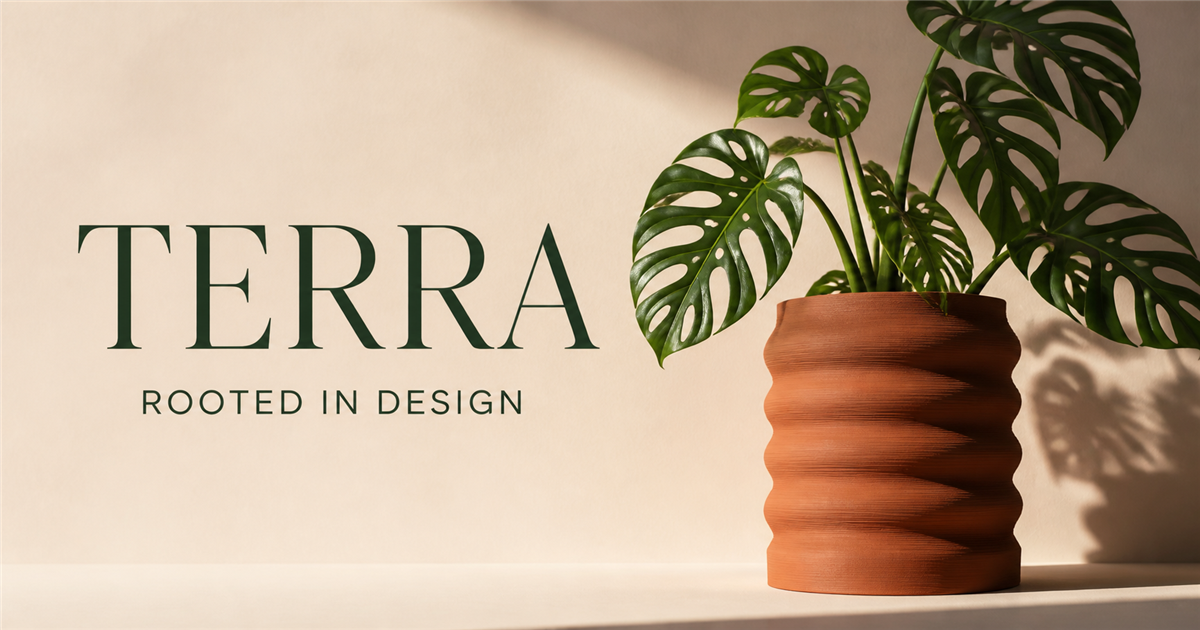
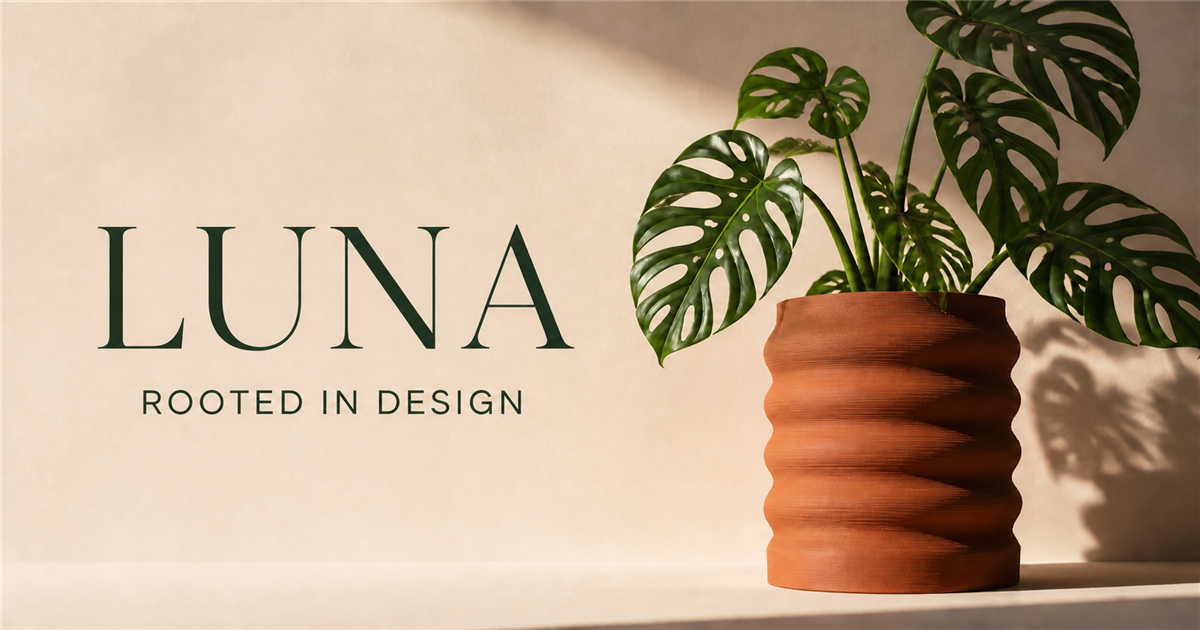
Rebrand storefront to Luna

diff --git a/app/contact/page.tsx b/app/contact/page.tsx
@@ -4,11 +4,11 @@ import { ContactForm } from "@/components/contact-form";
 
 export const metadata: Metadata = {
   title: "Contact and FAQs",
-  description: "Contact Terra about an order, plant care, delivery or trade enquiries. Find answers to common questions about our made-to-order plant pots.",
+  description: "Contact Luna about an order, plant care, delivery or trade enquiries. Find answers to common questions about our made-to-order plant pots.",
 };
 
 const faqs = [
-  ["Does the plant arrive inside the decorative pot?", "Yes. The plant stays in a fitted, removable nursery liner inside your Terra pot. It arrives composed and ready to place, while the liner keeps watering straightforward."],
+  ["Does the plant arrive inside the decorative pot?", "Yes. The plant stays in a fitted, removable nursery liner inside your Luna pot. It arrives composed and ready to place, while the liner keeps watering straightforward."],
   ["How long will my order take?", "Pots are printed to order, usually within 3–5 working days. UK mainland delivery takes a further 2–3 working days. We’ll email tracking as soon as it leaves the studio."],
   ["What if my plant arrives damaged?", "Photograph the plant and packaging within 48 hours and email us. Our healthy-arrival promise means we’ll make it right with care guidance, a replacement or a refund."],
   ["Are 3D-printed pots waterproof?", "The decorative pot is designed as a cover pot rather than a direct planter. The removable nursery liner handles water and drainage, protecting both the printed pot and your surfaces."],
@@ -21,7 +21,7 @@ export default function ContactPage() {
     <main className="contact-page">
       <script type="application/ld+json" dangerouslySetInnerHTML={{ __html: JSON.stringify(faqSchema) }} />
       <section className="contact-hero"><div className="site-container"><span className="eyebrow eyebrow-light">We’re here</span><h1>Let’s talk <em>plants.</em></h1><p>Questions about an order, an unhappy leaf or something altogether more ambitious? Send us a note.</p></div></section>
-      <section className="contact-main"><div className="site-container contact-grid"><div className="contact-details"><span className="eyebrow">Contact Terra</span><h2>A small team,<br />with real replies.</h2><p>We answer messages Monday to Friday and usually come back within two working days.</p><div className="contact-methods"><a href="mailto:hello@lunaplants.co.uk"><Mail size={20} /><span><small>Email</small>hello@lunaplants.co.uk</span></a><div><MapPin size={20} /><span><small>Studio</small>Bristol, United Kingdom</span></div><a href="https://www.instagram.com"><MessageCircle size={20} /><span><small>Social</small>@terraplants</span></a></div></div><ContactForm /></div></section>
+      <section className="contact-main"><div className="site-container contact-grid"><div className="contact-details"><span className="eyebrow">Contact Luna</span><h2>A small team,<br />with real replies.</h2><p>We answer messages Monday to Friday and usually come back within two working days.</p><div className="contact-methods"><a href="mailto:hello@lunaplants.co.uk"><Mail size={20} /><span><small>Email</small>hello@lunaplants.co.uk</span></a><div><MapPin size={20} /><span><small>Studio</small>Bristol, United Kingdom</span></div><a href="https://www.instagram.com"><MessageCircle size={20} /><span><small>Social</small>@lunaplants</span></a></div></div><ContactForm /></div></section>
       <section className="faq-section" id="faq"><div className="site-container faq-layout"><div><span className="eyebrow">Useful answers</span><h2>Frequently<br /><em>asked.</em></h2><p id="delivery">Still unsure? Our team is always happy to help with delivery, sizing or plant care.</p></div><div className="faq-list">{faqs.map(([question, answer], index) => <details key={question} id={index === 3 ? "care" : undefined}><summary><span>0{index + 1}</span>{question}</summary><p>{answer}</p></details>)}</div></div></section>
     </main>
   );

diff --git a/app/page.tsx b/app/page.tsx
@@ -11,14 +11,14 @@ import { TrustBar } from "@/components/trust-bar";
 export const metadata: Metadata = {
   title: "3D-printed plant pots, paired with plants",
   description:
-    "Shop modern 3D-printed plant pots with hand-selected indoor plants. Designed and made to order in the UK by Terra.",
+    "Shop modern 3D-printed plant pots with hand-selected indoor plants. Designed and made to order in the UK by Luna.",
 };
 
 export default function HomePage() {
   const organisationSchema = {
     "@context": "https://schema.org",
     "@type": "Organization",
-    name: "Terra",
+    name: "Luna",
     url: "https://lunaplants.co.uk",
     description: "Modern 3D-printed pots paired with houseplants, made to order in the UK.",
     areaServed: "GB",
@@ -41,7 +41,7 @@ export default function HomePage() {
           </div>
           <div className="hero-visual">
             <div className="hero-visual-number" aria-hidden="true">01</div>
-            <ProductArt shape="wave" palette="clay" priorityLabel="Golden pothos in Terra's sculptural terracotta Wave Pot" />
+            <ProductArt shape="wave" palette="clay" priorityLabel="Golden pothos in Luna's sculptural terracotta Wave Pot" />
             <div className="hero-caption">
               <span>The Wave Pot</span>
               <span>Terracotta · PLA</span>
@@ -69,7 +69,7 @@ export default function HomePage() {
       <section className="section process-section">
         <div className="site-container process-layout">
           <div className="process-intro">
-            <span className="eyebrow eyebrow-light">How Terra works</span>
+            <span className="eyebrow eyebrow-light">How Luna works</span>
             <h2>Handcrafted by machine.<br /><em>Inspired by nature.</em></h2>
             <p>Digital precision meets the unpredictability of a living thing. We think that contrast makes both more beautiful.</p>
           </div>
@@ -106,7 +106,7 @@ export default function HomePage() {
         <div className="studio-copy-panel">
           <span className="eyebrow">Our point of view</span>
           <h2>Objects for living.<br />Made with <em>less waste.</em></h2>
-          <p>We started Terra because most plant pots are either mass-produced and forgettable, or beautiful but hard to live with. 3D printing gives us another path: considered forms, produced only when someone wants them.</p>
+          <p>We started Luna because most plant pots are either mass-produced and forgettable, or beautiful but hard to live with. 3D printing gives us another path: considered forms, produced only when someone wants them.</p>
           <ul>
             <li><Check size={16} /> Plant-based and durable materials</li>
             <li><Check size={16} /> No speculative overproduction</li>
@@ -127,7 +127,7 @@ export default function HomePage() {
       <section className="section journal-preview">
         <div className="site-container">
           <div className="section-heading compact-heading">
-            <div><span className="eyebrow">The Terra journal</span><h2>Things worth <em>growing.</em></h2></div>
+            <div><span className="eyebrow">The Luna journal</span><h2>Things worth <em>growing.</em></h2></div>
             <Link className="text-link" href="/journal">Read all stories <ArrowRight size={15} /></Link>
           </div>
           <div className="journal-grid">

diff --git a/app/journal/[slug]/page.tsx b/app/journal/[slug]/page.tsx
@@ -15,14 +15,14 @@ export async function generateMetadata({ params }: { params: Promise<{ slug: str
 export default async function JournalPostPage({ params }: { params: Promise<{ slug: string }> }) {
   const post = getJournalPost((await params).slug);
   if (!post) notFound();
-  const articleSchema = { "@context": "https://schema.org", "@type": "Article", headline: post.title, description: post.excerpt, datePublished: "2026-08-02", author: { "@type": "Organization", name: "Terra" }, publisher: { "@type": "Organization", name: "Terra" } };
+  const articleSchema = { "@context": "https://schema.org", "@type": "Article", headline: post.title, description: post.excerpt, datePublished: "2026-08-02", author: { "@type": "Organization", name: "Luna" }, publisher: { "@type": "Organization", name: "Luna" } };
   return (
     <main className="article-page">
       <script type="application/ld+json" dangerouslySetInnerHTML={{ __html: JSON.stringify(articleSchema) }} />
-      <header className="article-header"><div className="site-container"><Link className="article-back" href="/journal"><ArrowLeft size={15} /> Back to journal</Link><span className="eyebrow">{post.category} · {post.readTime}</span><h1>{post.title}</h1><p>{post.excerpt}</p><div><span>{post.date}</span><span>Written by Terra Studio</span></div></div></header>
+      <header className="article-header"><div className="site-container"><Link className="article-back" href="/journal"><ArrowLeft size={15} /> Back to journal</Link><span className="eyebrow">{post.category} · {post.readTime}</span><h1>{post.title}</h1><p>{post.excerpt}</p><div><span>{post.date}</span><span>Written by Luna Studio</span></div></div></header>
       <div className={`article-lead-art journal-${post.tone}`}><span>FIELD NOTE</span><span className="article-plant" aria-hidden="true" /></div>
       <article className="article-body"><p className="article-intro">{post.intro}</p>{post.sections.map((section, index) => <section key={section.heading}><span>0{index + 1}</span><h2>{section.heading}</h2><p>{section.body}</p></section>)}<blockquote>Good plant care is mostly attention: notice what changes, then change one thing at a time.</blockquote></article>
-      <section className="article-newsletter"><div><span className="eyebrow eyebrow-light">More useful things</span><h2>Notes for greener rooms.</h2></div><div><p>Get the next field note in your inbox, with 10% off your first Terra pairing.</p><Newsletter compact /></div></section>
+      <section className="article-newsletter"><div><span className="eyebrow eyebrow-light">More useful things</span><h2>Notes for greener rooms.</h2></div><div><p>Get the next field note in your inbox, with 10% off your first Luna pairing.</p><Newsletter compact /></div></section>
     </main>
   );
 }

diff --git a/components/checkout-form.tsx b/components/checkout-form.tsx
@@ -24,7 +24,7 @@ export function CheckoutForm() {
     return (
       <section className="order-confirmation">
         <span className="confirmation-mark"><Check size={34} strokeWidth={1.3} /></span>
-        <span className="eyebrow">Order TERRA-2608 confirmed</span>
+        <span className="eyebrow">Order LUNA-2608 confirmed</span>
         <h1>A new thing is <em>growing.</em></h1>
         <p>Thank you. We’ve received your order and reserved its place in the print queue. A confirmation will be sent to your email.</p>
         <div><span>Next step</span><strong>We print your pot</strong><small>Estimated dispatch in 3–5 working days</small></div>
@@ -40,7 +40,7 @@ export function CheckoutForm() {
         <header><span className="eyebrow">Secure checkout</span><h1>Almost <em>home.</em></h1></header>
         <section className="checkout-section">
           <div className="checkout-section-title"><span>01</span><div><h2>Contact</h2><p>For your order confirmation and delivery updates.</p></div></div>
-          <div className="form-grid"><label className="field full-field"><span>Email address</span><input required type="email" autoComplete="email" placeholder="you@example.com" /></label><label className="checkbox-field full-field"><input type="checkbox" /><span>Send me occasional Terra notes and new releases</span></label></div>
+          <div className="form-grid"><label className="field full-field"><span>Email address</span><input required type="email" autoComplete="email" placeholder="you@example.com" /></label><label className="checkbox-field full-field"><input type="checkbox" /><span>Send me occasional Luna notes and new releases</span></label></div>
         </section>
         <section className="checkout-section">
           <div className="checkout-section-title"><span>02</span><div><h2>Delivery</h2><p>UK mainland delivery in 2–3 days after dispatch.</p></div></div>
@@ -61,7 +61,7 @@ export function CheckoutForm() {
           </div>
         </section>
         <button className="button button-primary checkout-submit" type="submit" disabled={!items.length}><LockKeyhole size={16} /> {items.length ? `Place order · ${formatPrice(subtotal + delivery)}` : "Your bag is empty"}</button>
-        <p className="checkout-terms">By placing your order you agree to Terra’s terms and privacy policy. This demo checkout does not capture payment.</p>
+        <p className="checkout-terms">By placing your order you agree to Luna’s terms and privacy policy. This demo checkout does not capture payment.</p>
       </form>
 
       <aside className="checkout-summary">

diff --git a/lib/journal.ts b/lib/journal.ts
@@ -23,7 +23,7 @@ export const journalPosts: JournalPost[] = [
     sections: [
       { heading: "Start with the nursery pot", body: "Measure the diameter of the plastic nursery pot your plant currently lives in. For most houseplants, move up by just 2–4 cm. This gives new roots space without leaving so much wet compost that they struggle to breathe." },
       { heading: "Think about the silhouette", body: "Upright plants feel grounded in taller cylinders, while broad or trailing plants suit lower, wider forms. The practical fit comes first, but proportion is what makes the pairing feel intentional." },
-      { heading: "Keep the liner", body: "Every Terra pairing keeps the plant in a removable nursery liner. You can lift it out to water and drain, then return it to the decorative pot—cleaner for shelves and kinder to roots." },
+      { heading: "Keep the liner", body: "Every Luna pairing keeps the plant in a removable nursery liner. You can lift it out to water and drain, then return it to the decorative pot—cleaner for shelves and kinder to roots." },
     ],
   },
   {
@@ -42,14 +42,14 @@ export const journalPosts: JournalPost[] = [
     ],
   },
   {
-    slug: "inside-the-terra-studio",
-    title: "Inside the Terra studio",
+    slug: "inside-the-luna-studio",
+    title: "Inside the Luna studio",
     excerpt: "From a line on screen to a finished planter: an afternoon with our small print farm.",
     category: "Studio visit",
     date: "18 July 2026",
     readTime: "6 min read",
     tone: "chalk",
-    intro: "Our studio is part workshop, part greenhouse. Printers hum along one wall, while test plants gather near the brightest windows. The two sides of Terra are always in conversation.",
+    intro: "Our studio is part workshop, part greenhouse. Printers hum along one wall, while test plants gather near the brightest windows. The two sides of Luna are always in conversation.",
     sections: [
       { heading: "A digital wheel", body: "Each form begins as a profile and a set of constraints: root space, liner size, strength and the way light should meet the surface. We refine digitally, then learn from the first physical print." },
       { heading: "The finishing bench", body: "Finished pots are checked by hand, cleaned and paired with a snug liner. Small variations in the printed grain are normal and part of the object’s character." },

diff --git a/app/about/page.tsx b/app/about/page.tsx
@@ -5,7 +5,7 @@ import { ProductArt } from "@/components/product-art";
 
 export const metadata: Metadata = {
   title: "Our story and process",
-  description: "Meet Terra: a UK studio pairing modern 3D-printed plant pots with characterful houseplants, made to order with less waste.",
+  description: "Meet Luna: a UK studio pairing modern 3D-printed plant pots with characterful houseplants, made to order with less waste.",
 };
 
 export default function AboutPage() {
@@ -13,8 +13,8 @@ export default function AboutPage() {
     <main className="about-page">
       <section className="about-hero">
         <div className="site-container about-hero-grid">
-          <div><span className="eyebrow">Our story / Est. 2026</span><h1>We make pots<br />for <em>living with.</em></h1><p>Terra sits where digital craft meets the unruly optimism of plants. We design the object and choose the living thing as one composition.</p></div>
-          <div className="about-hero-art"><ProductArt shape="ribbed" palette="moss" priorityLabel="Snake plant in a forest-green Terra Ribbed Cylinder" /><span>Form 03 / Ribbed Cylinder</span></div>
+          <div><span className="eyebrow">Our story / Est. 2026</span><h1>We make pots<br />for <em>living with.</em></h1><p>Luna sits where digital craft meets the unruly optimism of plants. We design the object and choose the living thing as one composition.</p></div>
+          <div className="about-hero-art"><ProductArt shape="ribbed" palette="moss" priorityLabel="Snake plant in a forest-green Luna Ribbed Cylinder" /><span>Form 03 / Ribbed Cylinder</span></div>
         </div>
       </section>
       <section className="manifesto-section">

diff --git a/app/journal/page.tsx b/app/journal/page.tsx
@@ -5,13 +5,13 @@ import { journalPosts } from "@/lib/journal";
 
 export const metadata: Metadata = {
   title: "The Journal — plant care and design",
-  description: "Practical plant care, considered design notes and stories from the Terra 3D-printing studio.",
+  description: "Practical plant care, considered design notes and stories from the Luna 3D-printing studio.",
 };
 
 export default function JournalPage() {
   return (
     <main className="journal-page">
-      <header className="journal-hero"><div className="site-container"><span className="eyebrow">Notes on plants & making</span><h1>The Terra <em>journal.</em></h1><p>Useful ideas for greener rooms, better objects and living with both.</p></div></header>
+      <header className="journal-hero"><div className="site-container"><span className="eyebrow">Notes on plants & making</span><h1>The Luna <em>journal.</em></h1><p>Useful ideas for greener rooms, better objects and living with both.</p></div></header>
       <section className="section journal-listing"><div className="site-container"><div className="journal-featured">
         <Link className={`journal-featured-art journal-${journalPosts[0].tone}`} href={`/journal/${journalPosts[0].slug}`}><span>FIELD NOTE / 001</span><span className="journal-plant" aria-hidden="true" /></Link>
         <div><span className="eyebrow">{journalPosts[0].category} · {journalPosts[0].readTime}</span><h2><Link href={`/journal/${journalPosts[0].slug}`}>{journalPosts[0].title}</Link></h2><p>{journalPosts[0].excerpt}</p><Link className="text-link" href={`/journal/${journalPosts[0].slug}`}>Read the note <ArrowRight size={15} /></Link></div>

diff --git a/components/site-footer.tsx b/components/site-footer.tsx
@@ -23,15 +23,15 @@ export function SiteFooter() {
         </div>
         <div className="footer-links">
           <div><h3>Shop</h3><Link href="/shop">All pairings</Link><Link href="/shop?room=Desk">Small spaces</Link><Link href="/shop?sort=gift">Gifts</Link></div>
-          <div><h3>Terra</h3><Link href="/about">Our story</Link><Link href="/journal">Journal</Link><Link href="/contact">Contact</Link></div>
+          <div><h3>Luna</h3><Link href="/about">Our story</Link><Link href="/journal">Journal</Link><Link href="/contact">Contact</Link></div>
           <div><h3>Help</h3><Link href="/contact#delivery">Delivery & returns</Link><Link href="/contact#care">Plant care</Link><Link href="/contact#faq">FAQs</Link></div>
         </div>
       </div>
       <div className="site-container footer-bottom">
-        <span>© {new Date().getFullYear()} Terra Studio Ltd.</span>
-        <div><Link href="/contact">Privacy</Link><Link href="/contact">Terms</Link><a href="https://www.instagram.com" aria-label="Terra on Instagram"><AtSign size={17} strokeWidth={1.4} /></a></div>
+        <span>© {new Date().getFullYear()} Luna Studio Ltd.</span>
+        <div><Link href="/contact">Privacy</Link><Link href="/contact">Terms</Link><a href="https://www.instagram.com" aria-label="Luna on Instagram"><AtSign size={17} strokeWidth={1.4} /></a></div>
       </div>
-      <div className="footer-wordmark" aria-hidden="true">TERRA</div>
+      <div className="footer-wordmark" aria-hidden="true">LUNA</div>
     </footer>
   );
 }

diff --git a/app/layout.tsx b/app/layout.tsx
@@ -20,21 +20,21 @@ export async function generateMetadata(): Promise<Metadata> {
 
   return {
     metadataBase: new URL(origin),
-    title: { default: "Terra — Rooted in Design", template: "%s | Terra" },
+    title: { default: "Luna — Rooted in Design", template: "%s | Luna" },
     description: "Modern 3D-printed pots, paired with characterful plants and made to order in the UK.",
-    applicationName: "Terra",
+    applicationName: "Luna",
     keywords: ["3D printed plant pots", "plant pots UK", "indoor plants with pots", "modern planters", "houseplants UK"],
     openGraph: {
       type: "website",
       locale: "en_GB",
-      siteName: "Terra",
-      title: "Terra — Rooted in Design",
+      siteName: "Luna",
+      title: "Luna — Rooted in Design",
       description: "Living plants and sculptural 3D-printed pots, paired and made to order in the UK.",
-      images: [{ url: socialImage, width: 1200, height: 630, alt: "Terra — plants paired with 3D-printed pots" }],
+      images: [{ url: socialImage, width: 1200, height: 630, alt: "Luna — plants paired with 3D-printed pots" }],
     },
     twitter: {
       card: "summary_large_image",
-      title: "Terra — Rooted in Design",
+      title: "Luna — Rooted in Design",
       description: "Living plants and sculptural 3D-printed pots, paired and made to order in the UK.",
       images: [socialImage],
     },

diff --git a/app/products/[slug]/page.tsx b/app/products/[slug]/page.tsx
@@ -17,7 +17,7 @@ export async function generateMetadata({ params }: { params: Promise<{ slug: str
   return {
     title: `${product.name} with ${product.botanicalName}`,
     description: `${product.description} Made to order in the UK. From ${formatPrice(product.price)}.`,
-    openGraph: { title: `${product.name} | Terra`, description: product.description },
+    openGraph: { title: `${product.name} | Luna`, description: product.description },
   };
 }
 
@@ -31,7 +31,7 @@ export default async function ProductPage({ params }: { params: Promise<{ slug: 
     "@type": "Product",
     name: product.name,
     description: product.description,
-    brand: { "@type": "Brand", name: "Terra" },
+    brand: { "@type": "Brand", name: "Luna" },
     material: product.material,
     category: "Indoor plant pots with plants",
     offers: {
@@ -40,7 +40,7 @@ export default async function ProductPage({ params }: { params: Promise<{ slug: 
       price: product.price,
       availability: "https://schema.org/InStock",
       url: `https://lunaplants.co.uk/products/${product.slug}`,
-      seller: { "@type": "Organization", name: "Terra" },
+      seller: { "@type": "Organization", name: "Luna" },
     },
     aggregateRating: { "@type": "AggregateRating", ratingValue: "4.9", reviewCount: "38" },
   };

diff --git a/components/store-provider.tsx b/components/store-provider.tsx
@@ -45,10 +45,10 @@ export function StoreProvider({ children }: { children: React.ReactNode }) {
   useEffect(() => {
     const syncSavedCart = () => {
       try {
-        const saved = window.localStorage.getItem("terra-cart");
+        const saved = window.localStorage.getItem("luna-cart");
         if (saved) setItems(JSON.parse(saved) as CartItem[]);
       } catch {
-        window.localStorage.removeItem("terra-cart");
+        window.localStorage.removeItem("luna-cart");
       } finally {
         setHydrated(true);
       }
@@ -62,7 +62,7 @@ export function StoreProvider({ children }: { children: React.ReactNode }) {
   }, []);
 
   useEffect(() => {
-    if (hydrated) window.localStorage.setItem("terra-cart", JSON.stringify(items));
+    if (hydrated) window.localStorage.setItem("luna-cart", JSON.stringify(items));
   }, [items, hydrated]);
 
   function addItem(product: Product, options: AddItemOptions = {}) {

diff --git a/components/product-art.tsx b/components/product-art.tsx
@@ -19,7 +19,7 @@ export function ProductArt({
     <div
       className={`product-art palette-${palette} ${className}`}
       role="img"
-      aria-label={priorityLabel ?? "Plant in a sculptural Terra pot"}
+      aria-label={priorityLabel ?? "Plant in a sculptural Luna pot"}
       style={colour ? ({ "--selected-pot": colour } as React.CSSProperties) : undefined}
     >
       <span className="art-sun" aria-hidden="true" />
@@ -39,7 +39,7 @@ export function ProductArt({
       ) : (
         <span className={`pot pot-${shape}`} aria-hidden="true">
           <span className="pot-rim" />
-          <span className="pot-mark">t</span>
+          <span className="pot-mark">l</span>
         </span>
       )}
       <span className="art-shadow" aria-hidden="true" />
